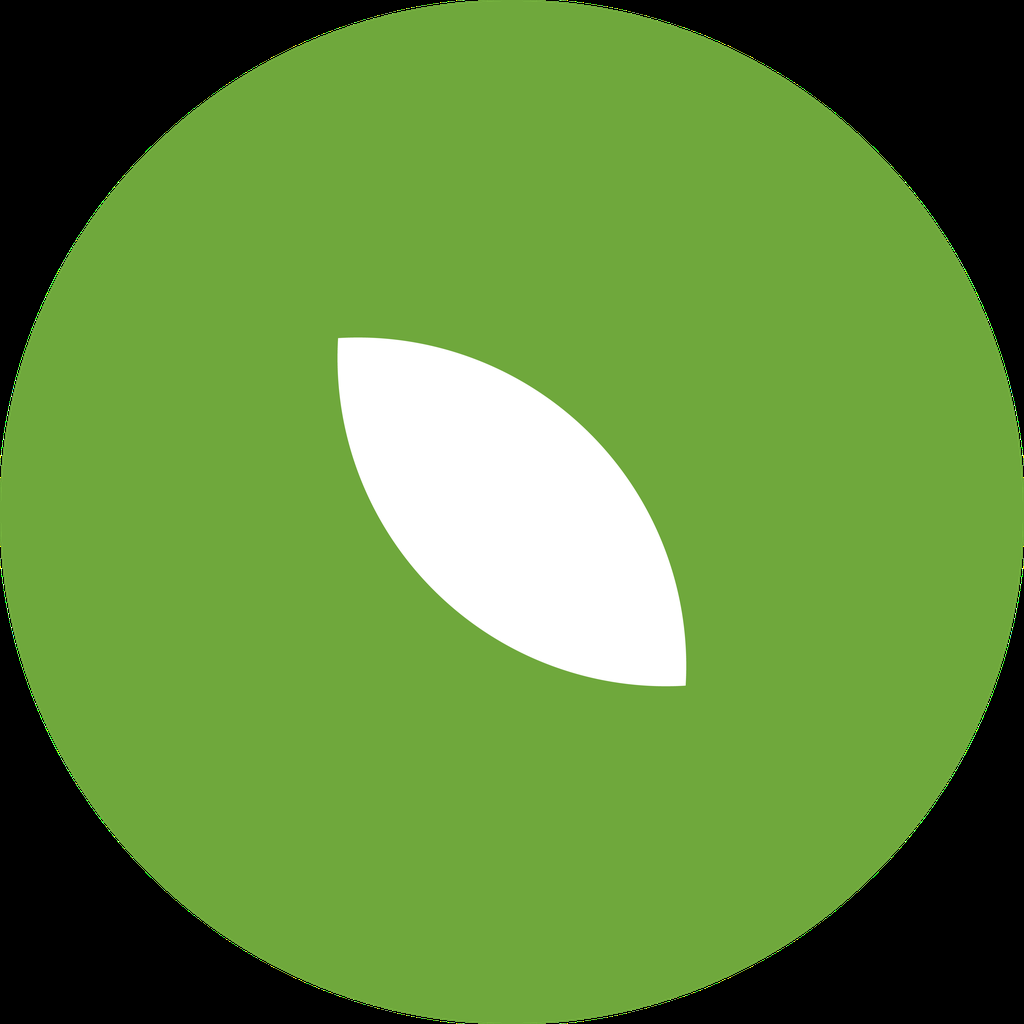
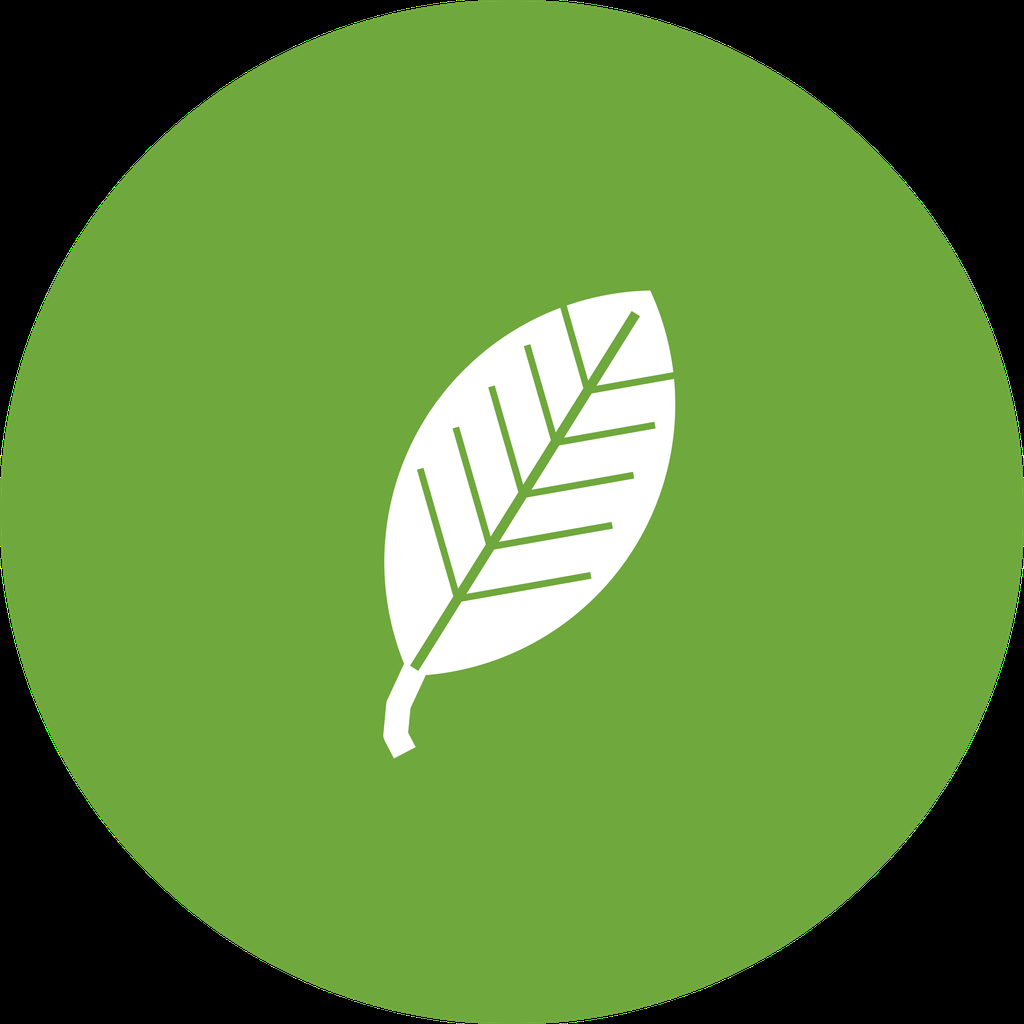
Faire lire la feuille comme une feuille
La forme precedente etait une lentille nue : deux pointes opposees et
rien d'autre, ce qui se lit 'oeil' ou 'ballon'. Ce qui fait une feuille
c'est la nervation et la tige, donc les voila.

Le limbe est desormais trace feuille verticale, pointe en haut, puis
incline par rotation. En diagonale il aurait fallu projeter chaque
point de chaque nervure ; vertical, ce sont deux lignes.

Les nervures laterales s'arretent avant le bord : une nervure qui
touche le contour le coupe et isole un eclat blanc, ce qui casse la
silhouette au lieu de la decrire. Elles raccourcissent vers la pointe,
c'est cette decroissance qui fait lire la nervation.

Le favicon garde une feuille pleine : a 48 pixels des traits de deux
pixels disparaissent au reechantillonnage et ne font que salir la
forme.

Changed region(s): [[0.3125, 0.2812, 0.6875, 0.75]]

diff --git a/app/scripts/og-image.py b/app/scripts/og-image.py
@@ -45,13 +45,18 @@ def police(taille: int, gras: bool = False) -> ImageFont.FreeTypeFont:
     return ImageFont.load_default()
 
 
-def masque_feuille(taille: int, longueur: float = 0.80, largeur: float = 0.36) -> Image.Image:
-    """Une feuille est l'intersection de deux disques décalés en diagonale.
+def masque_feuille(
+    taille: int,
+    longueur: float = 0.74,
+    largeur: float = 0.40,
+    nervures: bool = True,
+) -> Image.Image:
+    """Masque d'une feuille : limbe, nervures et tige.
 
-    C'est ce qui donne les deux pointes opposées. Le rayon et l'écart sont
-    calculés à partir des proportions voulues, pas choisis à vue : avec des
-    valeurs approximatives la forme dépassait du cadre et PIL la coupait net,
-    ce qui donnait une feuille au bord plat.
+    Le limbe est l'intersection de deux disques — c'est ce qui donne les deux
+    pointes opposées. Le rayon et l'écart sont calculés à partir des
+    proportions voulues, pas choisis à vue : avec des valeurs approximatives
+    la forme dépassait du cadre et PIL la coupait net.
 
     Les pointes se forment perpendiculairement à l'axe des centres, donc
     `longueur` est l'étendue perpendiculaire et `largeur` celle qui suit cet
@@ -59,7 +64,16 @@ def masque_feuille(taille: int, longueur: float = 0.80, largeur: float = 0.36) -
 
         R = (longueur² + largeur²) / (4 · largeur)
 
-    Tracée à quatre fois la taille puis réduite : PIL n'antialiase pas ses
+    Tout est tracé feuille verticale, pointe en haut : les nervures s'y
+    calculent en deux lignes, alors qu'en diagonale il faudrait projeter
+    chaque point. L'inclinaison vient d'une rotation à la fin.
+
+    Sans nervures ni tige, la forme se lit « œil » ou « ballon », pas
+    « feuille ». `nervures=False` existe pour les très petites tailles, où des
+    traits de deux pixels disparaissent au rééchantillonnage et ne font que
+    salir la forme.
+
+    Tracé à quatre fois la taille puis réduit : PIL n'antialiase pas ses
     tracés, et sans ça les bords sont crénelés.
     """
     f = 4
@@ -68,17 +82,67 @@ def masque_feuille(taille: int, longueur: float = 0.80, largeur: float = 0.36) -
     R = (L * L + W * W) / (4 * W)
     d = 2 * R - W
 
-    # Centres posés de part et d'autre du centre du cadre, sur la diagonale.
-    ecart = (d / 2) / (2 ** 0.5)
-    cx = cy = t / 2
+    cx, cy = t / 2, t / 2
+    # La tige pousse vers le bas : on remonte la feuille pour que l'ensemble
+    # reste centré dans le cadre.
+    tige = t * 0.11
+    cy -= tige / 2
+
+    limbe = Image.new("L", (t, t), 0)
     disques = []
     for signe in (1, -1):
         m = Image.new("L", (t, t), 0)
-        x, y = cx + signe * ecart, cy - signe * ecart
-        ImageDraw.Draw(m).ellipse((x - R, y - R, x + R, y + R), fill=255)
+        x = cx + signe * d / 2
+        ImageDraw.Draw(m).ellipse((x - R, cy - R, x + R, cy + R), fill=255)
         disques.append(m)
+    limbe = ImageChops.darker(*disques)
 
-    return ImageChops.darker(*disques).resize((taille, taille), Image.LANCZOS)
+    haut, bas = cy - L / 2, cy + L / 2
+
+    # Tige : prolonge la feuille sous sa base, légèrement incurvée pour ne pas
+    # avoir l'air d'un clou planté dans le limbe.
+    d_limbe = ImageDraw.Draw(limbe)
+    d_limbe.line(
+        [
+            (cx, bas - t * 0.03),
+            (cx + t * 0.010, bas + tige * 0.45),
+            (cx + t * 0.032, bas + tige * 0.85),
+            (cx + t * 0.060, bas + tige),
+        ],
+        fill=255,
+        width=int(t * 0.040),
+        joint="curve",
+    )
+
+    if not nervures:
+        return limbe.resize((taille, taille), Image.LANCZOS)
+
+    # Les nervures sont retirées du limbe : le vert du disque réapparaît par
+    # ces traits. Dessinées à part puis limitées au limbe, sinon elles
+    # dépasseraient du bord.
+    creux = Image.new("L", (t, t), 0)
+    dc = ImageDraw.Draw(creux)
+    epaisseur = max(2, int(t * 0.016))
+
+    dc.line([(cx, haut + L * 0.06), (cx, bas - L * 0.02)], fill=255, width=epaisseur)
+
+    # Cinq paires de nervures latérales, qui raccourcissent vers la pointe —
+    # c'est cette décroissance qui fait lire la nervation. Elles s'arrêtent
+    # avant le bord : une nervure qui touche le contour le coupe et isole un
+    # éclat blanc, ce qui casse la silhouette au lieu de la décrire.
+    for i in range(5):
+        p = 0.20 + i * 0.135           # position le long de la nervure centrale
+        y = bas - L * p
+        portee = W * 0.46 * (1 - p * 0.55)
+        for signe in (1, -1):
+            dc.line(
+                [(cx, y), (cx + signe * portee, y - portee * 0.90)],
+                fill=255,
+                width=max(2, int(epaisseur * 0.7)),
+            )
+
+    creux = ImageChops.darker(creux, limbe)
+    return ImageChops.subtract(limbe, creux).resize((taille, taille), Image.LANCZOS)
 
 
 def pastille(cote: int, part_feuille: float = 0.60) -> Image.Image:
@@ -94,7 +158,13 @@ def pastille(cote: int, part_feuille: float = 0.60) -> Image.Image:
     ImageDraw.Draw(rond).ellipse((0, 0, t - 1, t - 1), fill=255)
 
     taille_feuille = int(t * part_feuille)
-    m = masque_feuille(taille_feuille)
+    # En dessous d'une quarantaine de pixels à l'écran, les nervures ne font
+    # plus que troubler la silhouette : le favicon garde une feuille pleine.
+    m = masque_feuille(taille_feuille, nervures=cote >= 96)
+    # Penchée : une feuille strictement verticale a l'air d'un pictogramme de
+    # signalisation. L'expansion est désactivée pour que la rotation ne
+    # change pas la taille du masque.
+    m = m.rotate(-32, resample=Image.BICUBIC, expand=False)
     pos = (t - taille_feuille) // 2
     img.paste(Image.new("RGB", m.size, BLANC), (pos, pos), m)
 
